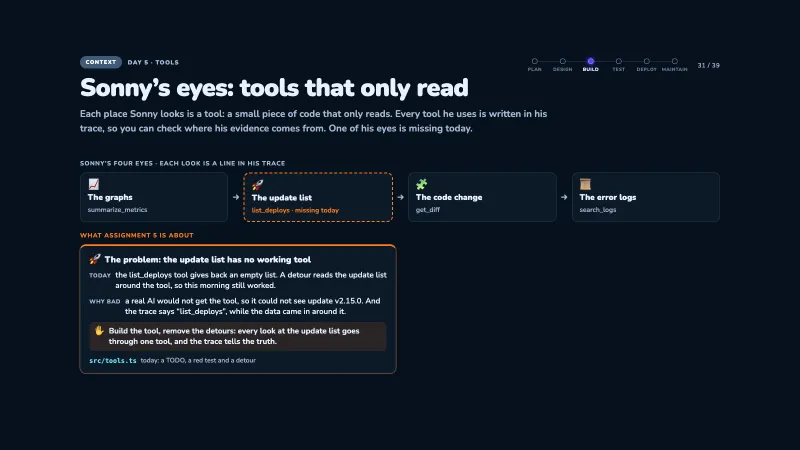
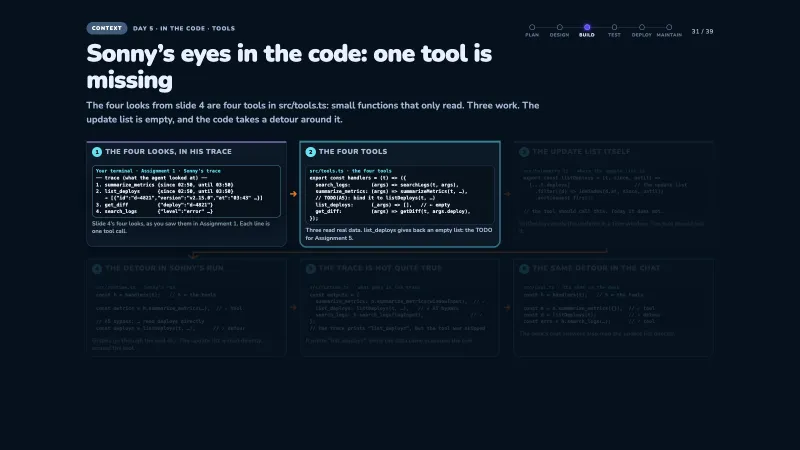
Day 5 slide 31: Sonny's eyes shown in the real code (slide 20 style) instead of cards
Why: Jessy asked where the tool and the detour actually are, and how this
relates to slide 4. The slide now follows the code: Sonny's trace from A1 →
the four tools in src/tools.ts (list_deploys returns [] under TODO(A5)) →
listDeploys in src/telemetry.ts → the detour in src/runtime.ts (h.summarize_metrics
through the tool vs listDeploys directly) → what goes in the trace → the same
detour in src/chat.ts; the see-it-yourself bar shows the A5 test today (0/3).
Code taken from workshop/start, shortened with "…". Script in do/say/ask with
pictures s31-1..8; "eyes, no hands" moved to the wrap-up.

diff --git a/day5-jessy-slides.js b/day5-jessy-slides.js
@@ -1120,40 +1120,55 @@ const day5Slides = [
         ['After step 6', '`modified: .claude/hooks/guard.mjs`: your two lines.'],
         ['After step 7', 'Nothing new.']
       ],
-      next: 'Sonny’s eyes: tools that only read.'
+      next: 'Sonny’s eyes in the code: one tool is missing.'
     },
     humanOpen: 'Only you write the guard line. The chat proposes; a named person presses the buttons.', next: 'A5 · Add one read-only tool'
   }),
   baseSlide({
-    title: 'Sonny’s eyes: tools that only read', kicker: 'Day 5 · TOOLS', type: 'context',
-    subtitle: 'Each place Sonny looks is a tool: a small piece of code that only reads. Every tool he uses is written in his trace, so you can check where his evidence comes from. One of his eyes is missing today.',
-    visual: {guardRail: {
-      plainChain: true, brokenStep: 1,
-      chainTitle: 'Sonny’s four eyes · each look is a line in his trace',
-      chain: [['📈', 'The graphs', 'summarize_metrics'], ['🚀', 'The update list', 'list_deploys · missing today'], ['🧩', 'The code change', 'get_diff'], ['📜', 'The error logs', 'search_logs']],
-      railsTitle: 'What Assignment 5 is about',
-      rails: [
-        {icon: '🚀', title: 'The problem: the update list has no working tool', whoLabel: 'Today', who: 'the list_deploys tool gives back an empty list. A detour reads the update list around the tool, so this morning still worked.', tryLabel: 'Why bad', try: 'a real AI would not get the tool, so it could not see update v2.15.0. And the trace says “list_deploys”, while the data came in around it.', stop: 'Build the tool, remove the detours: every look at the update list goes through one tool, and the trace tells the truth.', where: 'src/tools.ts', today: 'today: a TODO, a red test and a detour'},
-        {icon: '✋', title: 'Eyes, no hands', whoLabel: 'Tools', who: 'all four only read: graphs, updates, the code change, error logs', tryLabel: 'Never', try: 'a tool that changes something: roll back, scale, install an update', stop: 'Sonny looks and proposes. Changing things stays a button for a person, like the guardrails from Assignment 4.', where: 'src/tools.ts', today: 'on purpose'}
+    title: 'Sonny’s eyes in the code: one tool is missing', kicker: 'Day 5 · IN THE CODE · TOOLS', type: 'context',
+    subtitle: 'The four looks from slide 4 are four tools in src/tools.ts: small functions that only read. Three work. The update list is empty, and the code takes a detour around it.',
+    visual: {codeRoute: {
+      steps: [
+        {file: 'Your terminal · Assignment 1 · Sonny’s trace', term: true, code: '── trace (what the agent looked at) ──\n1. summarize_metrics {since 02:50, until 03:50}\n2. list_deploys      {since 02:50, until 03:50}\n   → [{"id":"d-4821","version":"v2.15.0","at":"03:43" …}]\n3. get_diff          {"deploy":"d-4821"}\n4. search_logs       {"level":"error" …}'},
+        {file: 'src/tools.ts · the four tools', lit: true, code: 'export const handlers = (t) => ({\n  search_logs:       (args) => searchLogs(t, args),\n  summarize_metrics: (args) => summarizeMetrics(t, …),\n  // TODO(A5): bind it to listDeploys(t, …)\n  list_deploys:      (_args) => [],   // ← empty\n  get_diff:          (args) => getDiff(t, args.deploy),\n});'},
+        {file: 'src/telemetry.ts · where the update list is', code: 'export const listDeploys = (t, since, until) =>\n  [...t.deploys]                      // the update list\n    .filter((d) => inWindow(d.at, since, until))\n    .sort(newest first);\n\n// the tool should call this. Today it does not.'},
+        {file: 'src/runtime.ts · Sonny’s run', lit: true, code: 'const h = handlers(t);   // h = the tools\n\nconst metrics = h.summarize_metrics(…);  // ✓ tool\n\n// A5 bypass: … read deploys directly\nconst deploys = listDeploys(t, …);      // ✗ detour'},
+        {file: 'src/runtime.ts · what goes in the trace', lit: true, code: 'const outputs = {\n  summarize_metrics: h.summarize_metrics(windowInput),  // ✓\n  list_deploys: listDeploys(t, …),   // ✗ A5 bypass\n  search_logs: h.search_logs(logInput),                // ✓\n};\n// the trace prints “list_deploys”, but the tool was skipped'},
+        {file: 'src/chat.ts · the chat on the desk', lit: true, code: 'const h = handlers(t);   // h = the tools\n\nconst m = h.summarize_metrics({});  // ✓ tool\nconst d = listDeploys(t);           // ✗ detour\nconst errs = h.search_logs(…);      // ✓ tool'}
       ],
-      foot: 'Assignment 5: see the red test and the detour → build the tool → test green. Sonny’s output stays the same, but now it is true.'
+      run: {label: 'See it yourself · Assignment 5, step 2', cmd: 'npx tsx --test test/workshop/tools.test.ts', when: 'Claude Code runs this test for you in step 2. After the build in step 4: pass 4, fail 0.',
+        outLabel: 'Today', out: 'not ok 1 - A5: list_deploys is bound to telemetry.listDeploys and returns deploys\nnot ok 2 - A5: list_deploys is registered on the telemetry MCP server\nnot ok 3 - A5: chat and offline runtime use the shared list_deploys capability\n# pass 0\n# fail 3'},
+      foot: 'h.something(…) = through the tool. listDeploys(t, …) straight away = the detour. Assignment 5: one real tool, and all three places use it.'
     }},
-    keyPoints: ['Each place Sonny looks is a tool that only reads.', 'The trace shows every look, so you can check his evidence.', 'Today the update-list tool is missing; a detour hides that.'],
-    notes: 'Time: 13:43 · 4 min. Replaces Ryan’s “Give the agent one read-only tool” and the A5 example picture. Clicks (→): 1 the heading “What Assignment 5 is about” · 2 the problem · 3 eyes, no hands · 4 the line at the bottom. The four eyes are always visible; the update list has a dashed orange border. Facts (workshop/start): src/tools.ts has four read-only handlers; list_deploys returns [] (TODO(A5)) and is not registered on the telemetry MCP server, so a real model cannot call it. Detours, marked “A5 bypass” in the code: src/runtime.ts (the offline run reads listDeploys directly, twice) and src/chat.ts (chat answers read listDeploys directly). The offline trace still prints “list_deploys {since, until}”. Tested: tools test pass 0 / fail 3 on day5-after-a3, pass 4 / fail 0 on day5-after-a5; npm run investigate output is identical on both. The A5 build also adds a safety case: an empty time window → OPEN, low confidence, investigate-more, never healthy. workshop/start = the version participants clone, with four pieces cut out (A3, A4, A5, A8).',
+    cards: [
+      {title: 'The four looks, in his trace', body: 'Slide 4’s four looks, as you saw them in Assignment 1. Each line is one tool call.'},
+      {title: 'The four tools', body: 'Three read real data. list_deploys gives back an empty list: the TODO for Assignment 5.'},
+      {title: 'The update list itself', body: 'listDeploys reads the updates in a time window. The tool should call it.'},
+      {title: 'The detour in Sonny’s run', body: 'Graphs go through the tool (h.). The update list is read directly, around the tool.'},
+      {title: 'The trace is not quite true', body: 'It prints “list_deploys”, while the data came in around the tool.'},
+      {title: 'The same detour in the chat', body: 'The desk’s chat answers also read the update list directly.'}
+    ],
+    keyPoints: ['The four looks from slide 4 are four tools in src/tools.ts; they only read.', 'list_deploys is empty today; Sonny’s run and the chat read the update list around it.', 'A real AI would not get the tool, and the trace would not be true. Assignment 5 fixes both.'],
+    notes: 'Time: 13:43 · 5 min. Same visual as slide 20 (code blocks with arrows). Clicks (→): 1–6 open the code blocks one by one, 7 the orange “see it yourself” bar and the line at the bottom. Click a block to jump; ← steps back. All code is from workshop/start (the version participants clone, with four pieces cut out), shortened with “…”: src/tools.ts lines 39–53 (handlers; list_deploys returns [] under TODO(A5)), src/telemetry.ts line 169 (listDeploys), src/runtime.ts lines 104–106 (offlineVerdict: the bypass) and 224–227 (the outputs that go in the trace), src/chat.ts line 63 (offlineAnswer). A second TODO(A5) in src/tools.ts: list_deploys is not registered on the telemetry server (createTelemetryServer), so a real AI model could not call it at all. Tested: tools test pass 0 / fail 3 on day5-after-a3, pass 4 / fail 0 on day5-after-a5; npm run investigate output identical on both; main 56/56 and typecheck clean after A5. Not on the slide, but true: no tool can change anything (eyes, no hands); say it in the wrap-up.',
     teach: {
-      time: '4 min',
-      gist: 'Sonny’s eyes are tools that only read, and every look is in his trace. One eye, the update list, is missing today and hidden by a detour. Assignment 5 builds it, so the trace tells the truth. Eyes, no hands.',
+      time: '5 min',
+      gist: 'Slide 4’s four looks are four tools in the code. One, the update list, is empty, and the code takes a detour around it. In the code you can see the difference: h.something = through the tool, listDeploys directly = around it.',
       script: [
-        {shot: 'assets/day5-jessy-teach/s31-1.webp', do: 'Slide appears. Point at the four eyes.', say: ['You know these four from this morning: where Sonny looks. The graphs, the update list, the code change, the error logs.', 'Each one is a tool: a small piece of code that only reads.', 'And every time he uses one, it is written in his trace: the lines at the top of his output in Assignment 1. For example: list_deploys, between 02:50 and 03:50. That is how you check where his evidence comes from.']},
-        {ask: 'Look at the update list. Why does Sonny need it at 03:45?', say: ['(Answer: to see that update v2.15.0 went out at 03:43, two minutes before the errors. Without it he cannot point at the cause.)']},
-        {shot: 'assets/day5-jessy-teach/s31-2.webp', do: 'Click: the heading.', say: ['Remember: the project you downloaded is a starting version. Four pieces were cut out on purpose. You built two of them already: the rules and the chat guardrail.']},
-        {shot: 'assets/day5-jessy-teach/s31-3.webp', do: 'Click: the problem.', say: ['The third piece: the update-list tool. Today it gives back an empty list.', 'So why did this morning work? Because the code takes a detour: it reads the update list itself, around the tool. Like a road diversion while the road is repaired.', 'Two problems with that. A real AI would not get the tool at all, so it could never see update v2.15.0. And the trace says “list_deploys”, while the data came in around it. The trace is what you use to check Sonny, so it must be true.']},
-        {shot: 'assets/day5-jessy-teach/s31-4.webp', do: 'Click: eyes, no hands.', say: ['And notice what is missing on purpose: a tool that changes something. No roll back, no scale, no install.', 'Sonny gets eyes, not hands. Changing things stays a button for a person: the guardrails from Assignment 4.']},
-        {shot: 'assets/day5-jessy-teach/s31-5.webp', do: 'Click: the line at the bottom.', say: ['Assignment 5: Claude Code shows you the red test and the detours, then builds the tool, then the test is green.', 'Be warned: Sonny’s output will look exactly the same as before. That is the point: same answer, but now it really comes through the tool.']}
+        {shot: 'assets/day5-jessy-teach/s31-1.webp', do: 'Slide appears. Point back: slide 4, “He looks”.', say: ['On slide 4 Sonny looked in four places: the graphs, the update list, the code change, the error logs.', 'In the code, each of those looks is a tool: a small function that only reads. Let us follow them.']},
+        {shot: 'assets/day5-jessy-teach/s31-2.webp', do: 'Click: block 1, the trace.', say: ['You saw this in Assignment 1, at the top of Sonny’s output: his trace. Four lines, the four looks.', 'Line 2: list_deploys, between 02:50 and 03:50, and it found update v2.15.0 at 03:43. That is how he knew the update caused it.']},
+        {shot: 'assets/day5-jessy-teach/s31-3.webp', do: 'Click: block 2, src/tools.ts.', say: ['Here are the four tools. Point at the left side: search_logs, summarize_metrics, list_deploys, get_diff. The same four names as in the trace.', 'Three of them read real data. list_deploys gives back an empty list: two square brackets. With a TODO for Assignment 5 above it.']},
+        {ask: 'If the tool is empty, how did Sonny find update v2.15.0 this morning?', say: ['(Answer: he did not use the tool. Next blocks.)']},
+        {shot: 'assets/day5-jessy-teach/s31-4.webp', do: 'Click: block 3, src/telemetry.ts.', say: ['This is where the update list really is: listDeploys. It takes the updates within a time window.', 'The tool should call this function. Today it does not.']},
+        {shot: 'assets/day5-jessy-teach/s31-5.webp', do: 'Click: block 4, Sonny’s run.', say: ['Look at the two lines. The graphs: h.summarize_metrics. The h means: through the tool.', 'The update list: listDeploys, straight away. No h. That is the detour: it reads the list itself, around the tool. The comment even says so: A5 bypass.', 'Why is it there? The tool was cut out for this workshop. Without the detour, this morning would not have worked.']},
+        {shot: 'assets/day5-jessy-teach/s31-6.webp', do: 'Click: block 5, what goes in the trace.', say: ['And this is what gets written in the trace. For list_deploys it writes the name of the tool, but the data came from the detour.', 'So the trace you saw this morning was not quite true. And the trace is exactly what you use to check Sonny.']},
+        {shot: 'assets/day5-jessy-teach/s31-7.webp', do: 'Click: block 6, the chat.', say: ['The same detour in the chat on the desk: the graphs through the tool, the update list directly.']},
+        {shot: 'assets/day5-jessy-teach/s31-8.webp', do: 'Click: the orange bar appears.', say: ['The A5 test checks exactly this: is the tool real, is it offered to the AI, and do Sonny’s run and the chat use it? Today: 0 of 3.', 'In Assignment 5 Claude Code builds the tool and removes the detours. Then: 4 of 4. Sonny’s output stays the same, but now it really comes through the tool.']},
+        {ask: 'Why does it matter, if the answer is the same?', say: ['(Answer: a real AI only gets tools. Without list_deploys it could never see the update. And the trace must be true, because that is how you check him.)']},
+        {do: 'Wrap up.', say: ['One more thing. Look at the four tools again: they all only read. There is no tool that rolls back or installs anything. Sonny has eyes, no hands. Changing things stays a button for a person.']}
       ],
-      learn: ['Sonny looks through tools that only read.', 'The trace shows every look, so it must be true.', 'Eyes, no hands: no tool changes anything.'],
-      watch: ['Someone asks why the detour was there: the project is a starting version with pieces cut out. The detour kept the morning working while the tool was missing.', 'Someone asks if the detour is a bug: it is a temporary shortcut, marked “A5 bypass” in the code. In real projects this is called technical debt.', 'Do not go into the code here; Claude Code shows it in step 1 of the assignment.'],
-      terms: [['Tool', 'a small piece of code Sonny can call to look at something; these only read'], ['Trace', 'the list of every tool Sonny used, with what he asked for (for example the time window)'], ['Deploy', 'an update to the shop, like v2.15.0'], ['Detour (bypass)', 'code that reads the data around the tool, so the tool is skipped']],
+      learn: ['Slide 4’s four looks are four tools in src/tools.ts.', 'h.something = through the tool; listDeploys directly = the detour.', 'The trace must be true: it is how you check Sonny.', 'Eyes, no hands: no tool changes anything.'],
+      watch: ['Do not read the code line by line: point at the one line per block (the trace line, the empty [], listDeploys, h. vs no h., the bypass comment).', 'Someone asks why the detour was there: the project is a starting version with pieces cut out; the detour kept the morning working.', 'Someone asks if it is a bug: it is a temporary shortcut, marked “A5 bypass”. In real projects this is called technical debt.', 'Clicked too far? ← steps back.'],
+      terms: [['Tool', 'a small function Sonny can call to look at something; these four only read'], ['Trace', 'the list of every tool Sonny used, with what he asked for'], ['h.', 'short for the handlers: the tools. h.summarize_metrics(…) = through the tool'], ['Detour (bypass)', 'code that reads the data around the tool, so the tool is skipped'], ['Deploy', 'an update to the shop, like v2.15.0']],
       next: 'Assignment 5.'
     }
   }),

diff --git a/day5-jessy.html b/day5-jessy.html
@@ -1,5 +1,5 @@
 <!doctype html>
-<html lang="en"><head><meta charset="utf-8"><meta http-equiv="Cache-Control" content="no-cache, no-store, must-revalidate"><meta http-equiv="Pragma" content="no-cache"><meta http-equiv="Expires" content="0"><meta name="viewport" content="width=device-width,initial-scale=1"><meta name="theme-color" content="#06111e"><title>Day 5 · AI-native SDLC (Jessy) · Aetherlink classroom</title><meta name="description" content="Day 5: a newcomer builds an AI on-call agent through six evidence-led assignments with Claude Code."><link rel="stylesheet" href="styles.css?v=199"><link rel="stylesheet" href="assets/day5-mobile.css?v=1"><script>window.ASG_PROMPT = true; window.ASG_WIDE = true; window.PRESENTER_PAGE = "day5-jessy-presenter.html"; window.OVERVIEW_SHEET = "https://claude.ai/artifact/46G6q235cuFtgRUruznWXm";</script><script src="day5-jessy-slides.js?v=55" defer></script><script src="demo-fallback.js?v=94" defer></script><script src="timers.js?v=92" defer></script><script src="sessions.js?v=20" defer></script><script src="app.js?v=180" defer></script><script src="fit-stage.js?v=2" defer></script></head>
+<html lang="en"><head><meta charset="utf-8"><meta http-equiv="Cache-Control" content="no-cache, no-store, must-revalidate"><meta http-equiv="Pragma" content="no-cache"><meta http-equiv="Expires" content="0"><meta name="viewport" content="width=device-width,initial-scale=1"><meta name="theme-color" content="#06111e"><title>Day 5 · AI-native SDLC (Jessy) · Aetherlink classroom</title><meta name="description" content="Day 5: a newcomer builds an AI on-call agent through six evidence-led assignments with Claude Code."><link rel="stylesheet" href="styles.css?v=199"><link rel="stylesheet" href="assets/day5-mobile.css?v=1"><script>window.ASG_PROMPT = true; window.ASG_WIDE = true; window.PRESENTER_PAGE = "day5-jessy-presenter.html"; window.OVERVIEW_SHEET = "https://claude.ai/artifact/46G6q235cuFtgRUruznWXm";</script><script src="day5-jessy-slides.js?v=57" defer></script><script src="demo-fallback.js?v=94" defer></script><script src="timers.js?v=92" defer></script><script src="sessions.js?v=20" defer></script><script src="app.js?v=180" defer></script><script src="fit-stage.js?v=2" defer></script></head>
 <body class="day5-mobile"><a class="skip" href="#stage">Skip to presentation</a>
 <header class="toolbar">
   <a class="brand" href="#1" aria-label="Aetherlink, slide 1"><img class="brand-mark" src="assets/aetherlink-mark.png" alt="" width="44" height="44">AETHER<span>LINK</span><small>WORLDLINE · CLASSROOM</small></a>

diff --git a/day5-jessy-presenter.html b/day5-jessy-presenter.html
@@ -149,7 +149,7 @@
       </div>
     </div>
   </div>
-  <script>window.DECK_PAGE = "day5-jessy.html"; window.PRESENTER_SKIP_HIDDEN = true;</script><script src="day5-jessy-slides.js?v=55" defer></script>
+  <script>window.DECK_PAGE = "day5-jessy.html"; window.PRESENTER_SKIP_HIDDEN = true;</script><script src="day5-jessy-slides.js?v=57" defer></script>
   <script src="timers.js?v=92" defer></script>
   <script>
     const upgradeDay5Clip = video => {
